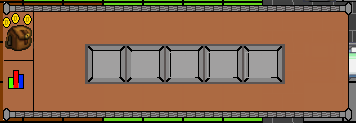
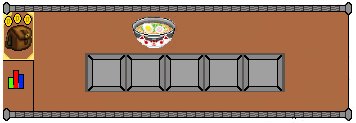
inventory_frame

diff --git a/Tests/Classes/GUI.py b/Tests/Classes/GUI.py
@@ -14,7 +14,7 @@ class GUI:
 
         self.ramen = 100
         self.ramen_image = pygame.image.load('ramen.png')
-        self.inventory_image = pygame.image.load('../Resources/inventory.png')
+        self.inventory_frame = pygame.image.load('../Resources/inventory_frame.png')
         self.health_stamina_frame = pygame.image.load('../Resources/health_stamina_frame.png')
         self.ramen_frame = pygame.image.load('../Resources/ramen_frame.png')
         self.inv = [nothing_object, nothing_object, nothing_object, nothing_object, nothing_object]
@@ -65,7 +65,7 @@ class GUI:
 
 
         # Displays the inventory
-        DISPLAYSURF.blit(self.inventory_image, (402, 502))
+        DISPLAYSURF.blit(self.inventory_frame, (320, 460))
         x_pos = 410
         for item in self.inv:
             image = pygame.image.load('../Resources/' + item)
